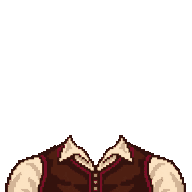
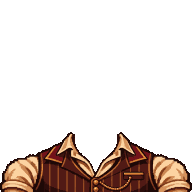
Eigene Figur im Stil der Gegnerporträts neu gezeichnet, Einfärben über Farbrampen (2.6.3)

Changed region(s): [[0.0, 0.6875, 1.0, 1.0]]

diff --git a/web/js/avatar.js b/web/js/avatar.js
@@ -1,6 +1,8 @@
 /* Zündung – die eigene Figur: ein Brustbild aus übereinandergelegten Ebenen (assets/avatar/*.png, je 192×192).
    Reihenfolge: Körper (eingefärbt), Tattoos, Outfit, Gesicht (je Ausdruck), Haare (eingefärbt), Hut.
-   Körper und Haare liegen in Graustufen vor und werden beim Zeichnen mit der gewählten Farbe multipliziert.
+   Körper, Gesichtsschatten und Haare liegen in fünf Graustufen vor (16 Kontur, 96 tiefer Schatten, 152 Schatten,
+   208 Grundton, 248 Glanzlicht); beim Zeichnen wird jede Stufe durch die Farbe einer Rampe ersetzt (ramp), damit
+   Schatten wie bei den Gegnerporträts in den Farbton kippen statt nur dunkler zu werden.
    Teile werden nicht gekauft, sondern erspielt: req = [Zählwerk, Schwelle, Hinweis] wie im Hinterzimmer. */
 (function (ZU) {
   'use strict';
@@ -8,9 +10,12 @@
 
   var PARTS = {
     skin: [
-      { id: 'porzellan', name: 'Porzellan', color: '#f6dcc6' }, { id: 'sand', name: 'Sand', color: '#eec39a' },
-      { id: 'honig', name: 'Honig', color: '#d9a066' }, { id: 'bronze', name: 'Bronze', color: '#b97a4a' },
-      { id: 'kastanie', name: 'Kastanie', color: '#8a5632' }, { id: 'ebenholz', name: 'Ebenholz', color: '#5e3a22' }
+      { id: 'porzellan', name: 'Porzellan', color: '#fcc8a4', ramp: ['#3a1410', '#d07a5a', '#eaa07c', '#fcc8a4', '#ffe8d0'] },
+      { id: 'sand', name: 'Sand', color: '#fcb070', ramp: ['#38100c', '#d86a3c', '#ea8a50', '#fcb070', '#fdd8a4'] },
+      { id: 'honig', name: 'Honig', color: '#fc9d52', ramp: ['#370c09', '#d75a2b', '#e47339', '#fc9d52', '#fdc88a'] },
+      { id: 'bronze', name: 'Bronze', color: '#de7e3e', ramp: ['#300a08', '#a8401e', '#c45c2a', '#de7e3e', '#f4a868'] },
+      { id: 'kastanie', name: 'Kastanie', color: '#b0562a', ramp: ['#260806', '#6e2814', '#8e3c1c', '#b0562a', '#d27e48'] },
+      { id: 'ebenholz', name: 'Ebenholz', color: '#783620', ramp: ['#1a0606', '#3e160e', '#5a2414', '#783620', '#a05834'] }
     ],
     hair: [
       { id: 'none', name: 'Glatze' },
@@ -19,12 +24,14 @@
       { id: 'hair-3', name: 'Lange Mähne', req: ['chain', 8, 'Erreiche eine Kette von ×8.'] }
     ],
     hairColor: [
-      { id: 'schwarz', name: 'Schwarz', color: '#3a2c26' }, { id: 'braun', name: 'Braun', color: '#8a5a34' }, { id: 'blond', name: 'Blond', color: '#e2b65a' },
-      { id: 'rot', name: 'Rot', color: '#c2472a', req: ['burnt', 3, 'Fackle 3 Tische ab.'] },
-      { id: 'grau', name: 'Silbergrau', color: '#b9b4ac', req: ['duels', 25, 'Gewinne 25 Duelle.'] },
-      { id: 'weiss', name: 'Schlohweiß', color: '#f1ece2', req: ['casino', 2, 'Räume 2 Casinos aus.'] },
-      { id: 'tuerkis', name: 'Türkis', color: '#4fc2ae', req: ['kniffe', 5, 'Lerne oder stufe 5 Kniffe.'] },
-      { id: 'glut', name: 'Glutorange', color: '#ff8a2a', req: ['overkill', 2, 'Übertriff ein Glutziel um das Doppelte.'] }
+      { id: 'schwarz', name: 'Schwarz', color: '#40343a', ramp: ['#0c080c', '#181218', '#2a2028', '#40343a', '#74626a'] },
+      { id: 'braun', name: 'Braun', color: '#a33d16', ramp: ['#2e080d', '#420c0e', '#741d11', '#a33d16', '#dc7021'] },
+      { id: 'blond', name: 'Blond', color: '#f6b848', ramp: ['#3a1a08', '#a85a18', '#d88a28', '#f6b848', '#ffe08a'] },
+      { id: 'rot', name: 'Rot', color: '#e44a22', ramp: ['#30060a', '#7a1010', '#b8241a', '#e44a22', '#ff8a40'], req: ['burnt', 3, 'Fackle 3 Tische ab.'] },
+      { id: 'grau', name: 'Silbergrau', color: '#b8b6ba', ramp: ['#1c1a22', '#56545e', '#8a8892', '#b8b6ba', '#e8e6e4'], req: ['duels', 25, 'Gewinne 25 Duelle.'] },
+      { id: 'weiss', name: 'Schlohweiß', color: '#f0ece8', ramp: ['#2a2630', '#9a94a2', '#cac6cc', '#f0ece8', '#ffffff'], req: ['casino', 2, 'Räume 2 Casinos aus.'] },
+      { id: 'tuerkis', name: 'Türkis', color: '#3cc2a8', ramp: ['#081e1e', '#0e4a44', '#1a8274', '#3cc2a8', '#a0f4dc'], req: ['kniffe', 5, 'Lerne oder stufe 5 Kniffe.'] },
+      { id: 'glut', name: 'Glutorange', color: '#ff8a1e', ramp: ['#300a04', '#a02808', '#e0500e', '#ff8a1e', '#ffd060'], req: ['overkill', 2, 'Übertriff ein Glutziel um das Doppelte.'] }
     ],
     outfit: [
       { id: 'outfit-2', name: 'Unterhemd' },
@@ -79,43 +86,63 @@
     return item;
   }
   function flush() { var list = waiting; waiting = []; list.forEach(function (fn) { fn(); }); }
+  /* Ebenen von unten nach oben: [Bild, Rampe oder null, Maske oder null]. */
   function layers(cfg, mood) {
-    var list = [['body-a', find('skin', cfg.skin).color]];
+    var skin = find('skin', cfg.skin).ramp, list = [['body-a', skin]];
     cfg.tattoo.forEach(function (id) { list.push([id]); });
     list.push([cfg.outfit]);
+    list.push(['face-' + mood + '-skin', skin]);
     list.push(['face-' + mood]);
     // Unter einem Hut verschwindet das Haar dort, wo die Hutmaske deckt (assets/avatar/<hut>-hairmask.png).
-    if (cfg.hair !== 'none') list.push([cfg.hair, find('hairColor', cfg.hairColor).color, cfg.hat !== 'none' ? cfg.hat + '-hairmask' : null]);
+    if (cfg.hair !== 'none') list.push([cfg.hair, find('hairColor', cfg.hairColor).ramp, cfg.hat !== 'none' ? cfg.hat + '-hairmask' : null]);
     if (cfg.hat !== 'none') list.push([cfg.hat]);
     return list;
   }
+  /* Graustufen-Ebene in die Farben einer Rampe umsetzen; das Ergebnis wird je Bild und Rampe aufgehoben. */
+  var tinted = {};
+  function rgb(hex) { return [parseInt(hex.slice(1, 3), 16), parseInt(hex.slice(3, 5), 16), parseInt(hex.slice(5, 7), 16)]; }
+  function ramped(name, img, ramp) {
+    var key = name + '|' + ramp.join(''), done = tinted[key];
+    if (done) return done;
+    var c = document.createElement('canvas');
+    c.width = c.height = SIZE;
+    var x = c.getContext('2d');
+    x.drawImage(img, 0, 0, SIZE, SIZE);
+    try {
+      var data = x.getImageData(0, 0, SIZE, SIZE), px = data.data, cols = ramp.map(rgb);
+      for (var i = 0; i < px.length; i += 4) {
+        if (!px[i + 3]) continue;
+        var l = px[i], col = cols[l < 56 ? 0 : l < 124 ? 1 : l < 180 ? 2 : l < 228 ? 3 : 4];
+        px[i] = col[0]; px[i + 1] = col[1]; px[i + 2] = col[2];
+      }
+      x.putImageData(data, 0, 0);
+    } catch (e) { /* ohne Pixelzugriff bleibt die Ebene grau */ }
+    tinted[key] = c;
+    return c;
+  }
   var scratch = null;
-  /* Zeichnet eine Ebene; mit Farbe wird das Graustufenbild multipliziert und auf seine eigene Form beschnitten. */
-  function drawLayer(ctx, img, color, mask) {
-    if (!color) { ctx.drawImage(img, 0, 0, SIZE, SIZE); return; }
+  function drawLayer(ctx, name, img, ramp, mask) {
+    var src = ramp ? ramped(name, img, ramp) : img;
+    if (!mask) { ctx.drawImage(src, 0, 0, SIZE, SIZE); return; }
     scratch = scratch || document.createElement('canvas');
     scratch.width = scratch.height = SIZE;
     var s = scratch.getContext('2d');
     s.globalCompositeOperation = 'source-over';
     s.clearRect(0, 0, SIZE, SIZE);
-    s.drawImage(img, 0, 0, SIZE, SIZE);
-    s.globalCompositeOperation = 'multiply';
-    s.fillStyle = color;
-    s.fillRect(0, 0, SIZE, SIZE);
-    s.globalCompositeOperation = 'destination-in';
-    s.drawImage(img, 0, 0, SIZE, SIZE);
-    if (mask) { s.globalCompositeOperation = 'destination-out'; s.drawImage(mask, 0, 0, SIZE, SIZE); }
+    s.drawImage(src, 0, 0, SIZE, SIZE);
+    s.globalCompositeOperation = 'destination-out';
+    s.drawImage(mask, 0, 0, SIZE, SIZE);
     ctx.drawImage(scratch, 0, 0);
   }
   function paint(canvas, cfg, mood) {
     var list = layers(cfg, mood), items = list.map(function (l) { return image(l[0]); });
     var masks = list.map(function (l) { return l[2] ? image(l[2]) : null; });
-    if (masks.some(function (it) { return it && !it.ok && !it.bad; })) items.push({ ok: false, bad: false });
-    if (items.some(function (it) { return !it.ok && !it.bad; })) { waiting.push(function () { if (canvas._want === mood + JSON.stringify(cfg)) paint(canvas, cfg, mood); }); return; }
+    var pending = items.concat(masks).some(function (it) { return it && !it.ok && !it.bad; });
+    if (pending) { waiting.push(function () { if (canvas._want === mood + JSON.stringify(cfg)) paint(canvas, cfg, mood); }); return; }
     var ctx = canvas.getContext('2d');
     ctx.imageSmoothingEnabled = false;
     ctx.clearRect(0, 0, SIZE, SIZE);
-    list.forEach(function (l, i) { if (items[i].ok) drawLayer(ctx, items[i].img, l[1], masks[i] && masks[i].ok ? masks[i].img : null); });
+    list.forEach(function (l, i) { if (items[i].ok) drawLayer(ctx, l[0], items[i].img, l[1], masks[i] && masks[i].ok ? masks[i].img : null); });
   }
 
   /* Porträt der eigenen Figur mit denselben Griffen wie ZU.portraitEl: setMood(mood, ms), setBase(mood), setConfig(cfg). */

diff --git a/web/index.html b/web/index.html
@@ -12,7 +12,7 @@
   <link rel="manifest" href="manifest.webmanifest">
   <link rel="icon" href="assets/special/opfer.png">
   <link rel="apple-touch-icon" href="assets/icons/apple-touch-icon.png">
-  <link rel="stylesheet" href="css/style.css?v=a829a8fab0">
+  <link rel="stylesheet" href="css/style.css?v=7d28f8d92f">
 </head>
 <body>
   <canvas id="bg"></canvas>
@@ -28,23 +28,23 @@
   <div id="rotate"><i></i><span>Bitte das Handy drehen – Zündung wird im Querformat gespielt.</span></div>
   <div id="crt"></div>
 
-  <script src="js/data.js?v=a829a8fab0"></script>
-  <script src="js/lore.js?v=a829a8fab0"></script>
-  <script src="js/engine.js?v=a829a8fab0"></script>
-  <script src="js/run.js?v=a829a8fab0"></script>
-  <script src="js/meta.js?v=a829a8fab0"></script>
-  <script src="js/account.js?v=a829a8fab0"></script>
-  <script src="js/legal.js?v=a829a8fab0"></script>
-  <script src="js/fx.js?v=a829a8fab0"></script>
-  <script src="js/audio.js?v=a829a8fab0"></script>
-  <script src="js/bg.js?v=a829a8fab0"></script>
-  <script src="js/cards.js?v=a829a8fab0"></script>
-  <script src="js/title.js?v=a829a8fab0"></script>
-  <script src="js/app.js?v=a829a8fab0"></script>
-  <script src="js/boot.js?v=a829a8fab0"></script>
-  <script src="js/duelview.js?v=a829a8fab0"></script>
-  <script src="js/screens.js?v=a829a8fab0"></script>
-  <script src="js/avatar.js?v=a829a8fab0"></script>
-  <script src="js/main.js?v=a829a8fab0"></script>
+  <script src="js/data.js?v=7d28f8d92f"></script>
+  <script src="js/lore.js?v=7d28f8d92f"></script>
+  <script src="js/engine.js?v=7d28f8d92f"></script>
+  <script src="js/run.js?v=7d28f8d92f"></script>
+  <script src="js/meta.js?v=7d28f8d92f"></script>
+  <script src="js/account.js?v=7d28f8d92f"></script>
+  <script src="js/legal.js?v=7d28f8d92f"></script>
+  <script src="js/fx.js?v=7d28f8d92f"></script>
+  <script src="js/audio.js?v=7d28f8d92f"></script>
+  <script src="js/bg.js?v=7d28f8d92f"></script>
+  <script src="js/cards.js?v=7d28f8d92f"></script>
+  <script src="js/title.js?v=7d28f8d92f"></script>
+  <script src="js/app.js?v=7d28f8d92f"></script>
+  <script src="js/boot.js?v=7d28f8d92f"></script>
+  <script src="js/duelview.js?v=7d28f8d92f"></script>
+  <script src="js/screens.js?v=7d28f8d92f"></script>
+  <script src="js/avatar.js?v=7d28f8d92f"></script>
+  <script src="js/main.js?v=7d28f8d92f"></script>
 </body>
 </html>

diff --git a/web/js/data.js b/web/js/data.js
@@ -2,13 +2,13 @@
 (function (ZU) {
   'use strict';
 
-  ZU.VERSION = '2.6.2';
+  ZU.VERSION = '2.6.3';
   /* Stand der Casino-Liste. Ändert sich die Reihenfolge, rechnen js/meta.js und js/run.js gespeicherte Stände um. */
   ZU.CASINO_VERSION = 2;
   ZU.CASINO_REMAP = [0, 1, 3, 5, 6, 7]; // alter Index (sechs Häuser) → neuer Index (acht Häuser) // im Hauptmenü unten rechts angezeigt
   /* Build-Kennung: wird an alle Asset-Adressen gehängt, damit Browser und CDN nach einem Update frische
      Dateien holen. Nicht von Hand ändern: web/tools/stamp_version.py setzt den Wert. */
-  ZU.BUILD = 'a829a8fab0';
+  ZU.BUILD = '7d28f8d92f';
   ZU.asset = function (path) { return 'assets/' + path + '?v=' + ZU.BUILD; };
 
   ZU.HAND_SIZE = 7;

diff --git a/web/assets/ASSETS.md b/web/assets/ASSETS.md
@@ -228,8 +228,9 @@ die Funkgerät-Verzerrung entstehen erst beim Abspielen (`js/audio.js`).
 
 ### Eigene Figur (`avatar/`)
 
-Ebenen je 192×192 auf gemeinsamer Leinwand, ohne Versatz zu stapeln: `body-a` (Graustufen, wird mit der Hautfarbe
-multipliziert), `tattoo-*`, `outfit-*`, `face-<Ausdruck>` (Augen, Brauen, Mund), `hair-*` (Graustufen, eingefärbt),
-`hat-*`; `hat-N-hairmask` löscht das Haar unter dem Hut. Entstanden über eine magentafarbene Schablone des Körpers,
-auf die jedes Teil einzeln gezeichnet und danach registriert wird. Skripte, Prompts und Prüfbild:
-`/data/ignite/art/avatar/` (`gen.sh`, `build_items.py`, `check.png`).
+Ebenen je 192×192 auf gemeinsamer Leinwand, ohne Versatz zu stapeln, im Stil der Gegnerporträts (Vorbild: `enemies/influencer.png`):
+`body-a` · `tattoo-*` · `outfit-*` · `face-<Ausdruck>-skin` · `face-<Ausdruck>` · `hair-*` · `hat-*`; `hat-N-hairmask` löscht das Haar unter dem Hut.
+`body-a`, `face-*-skin` und `hair-*` sind Graustufen mit genau fünf Stufen (16 Kontur, 96 tiefer Schatten, 152 Schatten, 208 Grundton,
+248 Glanzlicht); das Spiel ersetzt jede Stufe durch die Farbe einer Rampe (`ramp` in `js/avatar.js`). Die Gesichtsschatten sind
+Differenzen zum Körper und brauchen ihn darunter. Entstanden über eine magentafarbene Schablone des Körpers, auf die jedes Teil
+einzeln gezeichnet und danach registriert wird. Skripte, Prompts und Prüfbilder: `/data/ignite/art/avatar/v2/` (erste Fassung in `v1/`).
